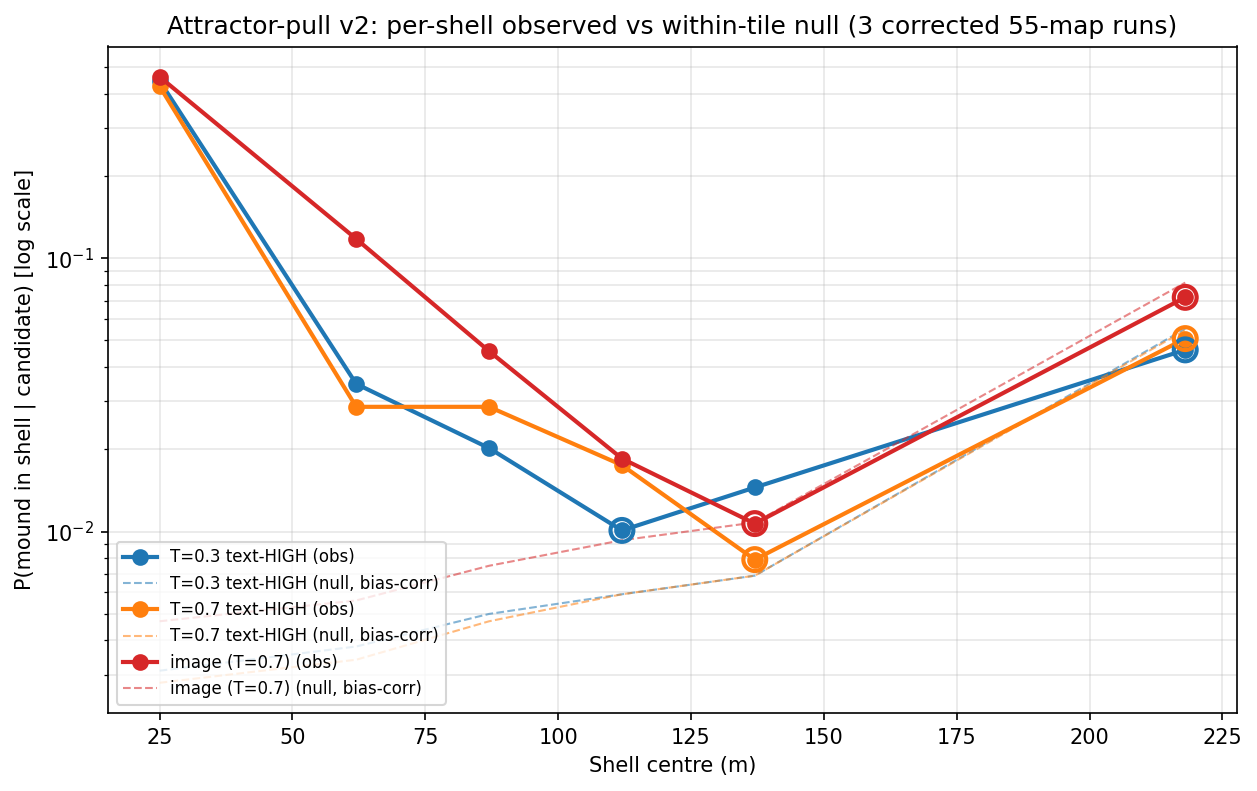
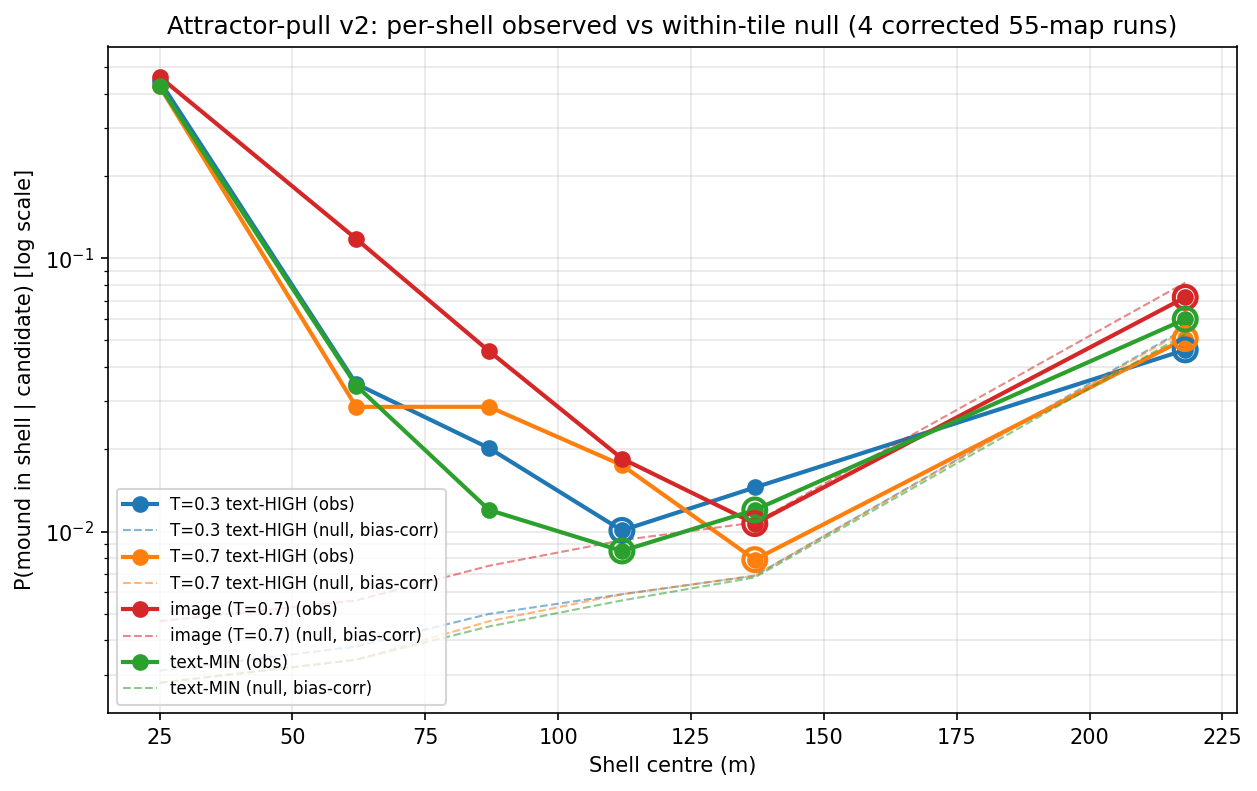
data(55maps): attractor-pull v2 with 4 corrected runs (text-MIN added)
Re-run shell-wise within-tile permutation analysis across all four
manually-corrected 55-map runs (T=0.3 text-HIGH, T=0.7 text-HIGH,
image, text-MIN), seed 42, M = 1,000. Adds text-MIN as a fourth
condition; the existing three runs are reproduced bit-identically.

text-MIN (n=585, 324 reviewer-promoted, bias_correction=0.9361)
patterns:

- (0, 50] m: obs 0.4274, lift 151.8x, sig (p=0.001)
- (50, 75] m: obs 0.0342, lift 10.1x, sig (p=0.001)
- (75, 100] m: obs 0.0120, lift 2.68x, sig (p=0.015)
- (100, 125] m: obs 0.0085, lift 1.54x, NOT sig (p=0.199)
- (125, 150] m: obs 0.0120, lift 1.76x, NOT sig (p=0.082)
- (150, 286] m: obs 0.0598, lift 1.14x, NOT sig (p=0.254)

Per-run cutoff = 100 m (monotonic — last_sig matches contiguous-from-
zero, unlike T=0.3 which had a non-monotonic 150-m bounce). text-MIN
behaves like a tighter version of T=0.3 text-HIGH: same 100-m cutoff,
similar lift profile in shells 1-3, but no late-shell artefact.

4-run consensus:

- Most-permissive consensus cutoff = 100 m (unchanged from 3-run
  v1 — T=0.3 was already setting the floor; text-MIN reinforces it).
- Majority breakpoint = 125 m (first shell with < 3/4 runs sig).
  Note: 3-run breakpoint was reported as 150 m under the old
  (N+1)//2 threshold; the corrected (N//2)+1 formula now
  demands strict majority, so the 3-run value would also have been
  125 m (where only 2/3 sig — the formulae agree on n=3).
- 50, 75, 100 m: unanimously significant (4/4).
[…]

diff --git a/results/55maps-attractor-pull-v2/report.md b/results/55maps-attractor-pull-v2/report.md
@@ -1,6 +1,6 @@
 # Attractor-pull v2 — multi-run shell-wise null analysis
 
-**Anchor**: Obs 272 (`docs/notes/reflections/working-notes.md`, 2026-04-21) established the attractor-pull cutoff at ~125 m using the image-generalisation review only. v2 re-runs the same shell-wise within-tile permutation null on each of the three corrected 55-map runs and synthesises a consensus cutoff.
+**Anchor**: Obs 272 (`docs/notes/reflections/working-notes.md`, 2026-04-21) established the attractor-pull cutoff at ~125 m using the image-generalisation review only. v2 re-runs the same shell-wise within-tile permutation null on each of the 4 corrected 55-map runs and synthesises a consensus cutoff.
 
 ## 1. Method
 
@@ -50,19 +50,32 @@ Shell edges (m): 50, 75, 100, 125, 150, 286. The (200, 286] shell corresponds to
 
 **Per-run cutoff**: 125 m (deepest shell outer edge with bias-corrected p < 0.05)
 
+### text-MIN — n=585, bias_correction=0.9361
+
+|   R_inner_m |   R_outer_m |   obs_rate_in_shell |   null_mean_bias_corrected |   lift_ratio_bias_corrected |   signal_fraction_bias_corrected |   p_value_bias_corrected | significant   |
+|------------:|------------:|--------------------:|---------------------------:|----------------------------:|---------------------------------:|-------------------------:|:--------------|
+|           0 |          50 |              0.4274 |                     0.0028 |                      151.76 |                           0.9934 |                    0.001 | True          |
+|          50 |          75 |              0.0342 |                     0.0034 |                       10.08 |                           0.9008 |                    0.001 | True          |
+|          75 |         100 |              0.012  |                     0.0045 |                        2.68 |                           0.6262 |                    0.015 | True          |
+|         100 |         125 |              0.0085 |                     0.0056 |                        1.54 |                           0.3486 |                    0.199 | False         |
+|         125 |         150 |              0.012  |                     0.0068 |                        1.76 |                           0.433  |                    0.082 | False         |
+|         150 |         286 |              0.0598 |                     0.0527 |                        1.14 |                           0.1193 |                    0.254 | False         |
+
+**Per-run cutoff**: 100 m (deepest shell outer edge with bias-corrected p < 0.05)
+
 ## 3. Cross-run consensus
 
-|   R_outer_m | t0.3   | t0.7   | image   |   n_runs_significant | all_significant   |
-|------------:|:-------|:-------|:--------|---------------------:|:------------------|
-|          50 | sig    | sig    | sig     |                    3 | yes               |
-|          75 | sig    | sig    | sig     |                    3 | yes               |
-|         100 | sig    | sig    | sig     |                    3 | yes               |
-|         125 | —      | sig    | sig     |                    2 | no                |
-|         150 | sig    | —      | —       |                    1 | no                |
-|         286 | —      | —      | —       |                    0 | no                |
+|   R_outer_m | t0.3   | t0.7   | image   | text-min   |   n_runs_significant | all_significant   |
+|------------:|:-------|:-------|:--------|:-----------|---------------------:|:------------------|
+|          50 | sig    | sig    | sig     | sig        |                    4 | yes               |
+|          75 | sig    | sig    | sig     | sig        |                    4 | yes               |
+|         100 | sig    | sig    | sig     | sig        |                    4 | yes               |
+|         125 | —      | sig    | sig     | —          |                    2 | no                |
+|         150 | sig    | —      | —       | —          |                    1 | no                |
+|         286 | —      | —      | —       | —          |                    0 | no                |
 
-**Most-permissive consensus cutoff**: 100 m (largest shell outer edge significant in all three runs).
-**Majority-loses breakpoint**: 150 m (first shell where < 2/3 runs are significant).
+**Most-permissive consensus cutoff**: 100 m (largest shell outer edge significant in all 4 runs).
+**Majority-loses breakpoint**: 125 m (first shell where < 3/4 runs are significant).
 
 ### Per-run cutoff summary
 
@@ -71,6 +84,7 @@ Shell edges (m): 50, 75, 100, 125, 150, 286. The (200, 286] shell corresponds to
 | T=0.3 text-HIGH |            692 |        100 |
 | T=0.7 text-HIGH |            630 |        125 |
 | image (T=0.7)   |           1029 |        125 |
+| text-MIN        |            585 |        100 |
 
 ## 4. Cross-reference to Obs 272
 

diff --git a/results/55maps-attractor-pull-v2/report_autogen.md b/results/55maps-attractor-pull-v2/report_autogen.md
@@ -1,6 +1,6 @@
 # Attractor-pull v2 — multi-run shell-wise null analysis
 
-**Anchor**: Obs 272 (`docs/notes/reflections/working-notes.md`, 2026-04-21) established the attractor-pull cutoff at ~125 m using the image-generalisation review only. v2 re-runs the same shell-wise within-tile permutation null on each of the three corrected 55-map runs and synthesises a consensus cutoff.
+**Anchor**: Obs 272 (`docs/notes/reflections/working-notes.md`, 2026-04-21) established the attractor-pull cutoff at ~125 m using the image-generalisation review only. v2 re-runs the same shell-wise within-tile permutation null on each of the 4 corrected 55-map runs and synthesises a consensus cutoff.
 
 ## 1. Method
 
@@ -50,19 +50,32 @@ Shell edges (m): 50, 75, 100, 125, 150, 286. The (200, 286] shell corresponds to
 
 **Per-run cutoff**: 125 m (deepest shell outer edge with bias-corrected p < 0.05)
 
+### text-MIN — n=585, bias_correction=0.9361
+
+|   R_inner_m |   R_outer_m |   obs_rate_in_shell |   null_mean_bias_corrected |   lift_ratio_bias_corrected |   signal_fraction_bias_corrected |   p_value_bias_corrected | significant   |
+|------------:|------------:|--------------------:|---------------------------:|----------------------------:|---------------------------------:|-------------------------:|:--------------|
+|           0 |          50 |              0.4274 |                     0.0028 |                      151.76 |                           0.9934 |                    0.001 | True          |
+|          50 |          75 |              0.0342 |                     0.0034 |                       10.08 |                           0.9008 |                    0.001 | True          |
+|          75 |         100 |              0.012  |                     0.0045 |                        2.68 |                           0.6262 |                    0.015 | True          |
+|         100 |         125 |              0.0085 |                     0.0056 |                        1.54 |                           0.3486 |                    0.199 | False         |
+|         125 |         150 |              0.012  |                     0.0068 |                        1.76 |                           0.433  |                    0.082 | False         |
+|         150 |         286 |              0.0598 |                     0.0527 |                        1.14 |                           0.1193 |                    0.254 | False         |
+
+**Per-run cutoff**: 100 m (deepest shell outer edge with bias-corrected p < 0.05)
+
 ## 3. Cross-run consensus
 
-|   R_outer_m | t0.3   | t0.7   | image   |   n_runs_significant | all_significant   |
-|------------:|:-------|:-------|:--------|---------------------:|:------------------|
-|          50 | sig    | sig    | sig     |                    3 | yes               |
-|          75 | sig    | sig    | sig     |                    3 | yes               |
-|         100 | sig    | sig    | sig     |                    3 | yes               |
-|         125 | —      | sig    | sig     |                    2 | no                |
-|         150 | sig    | —      | —       |                    1 | no                |
-|         286 | —      | —      | —       |                    0 | no                |
+|   R_outer_m | t0.3   | t0.7   | image   | text-min   |   n_runs_significant | all_significant   |
+|------------:|:-------|:-------|:--------|:-----------|---------------------:|:------------------|
+|          50 | sig    | sig    | sig     | sig        |                    4 | yes               |
+|          75 | sig    | sig    | sig     | sig        |                    4 | yes               |
+|         100 | sig    | sig    | sig     | sig        |                    4 | yes               |
+|         125 | —      | sig    | sig     | —          |                    2 | no                |
+|         150 | sig    | —      | —       | —          |                    1 | no                |
+|         286 | —      | —      | —       | —          |                    0 | no                |
 
-**Most-permissive consensus cutoff**: 100 m (largest shell outer edge significant in all three runs).
-**Majority-loses breakpoint**: 150 m (first shell where < 2/3 runs are significant).
+**Most-permissive consensus cutoff**: 100 m (largest shell outer edge significant in all 4 runs).
+**Majority-loses breakpoint**: 125 m (first shell where < 3/4 runs are significant).
 
 ### Per-run cutoff summary
 
@@ -71,6 +84,7 @@ Shell edges (m): 50, 75, 100, 125, 150, 286. The (200, 286] shell corresponds to
 | T=0.3 text-HIGH |            692 |        100 |
 | T=0.7 text-HIGH |            630 |        125 |
 | image (T=0.7)   |           1029 |        125 |
+| text-MIN        |            585 |        100 |
 
 ## 4. Cross-reference to Obs 272
 
